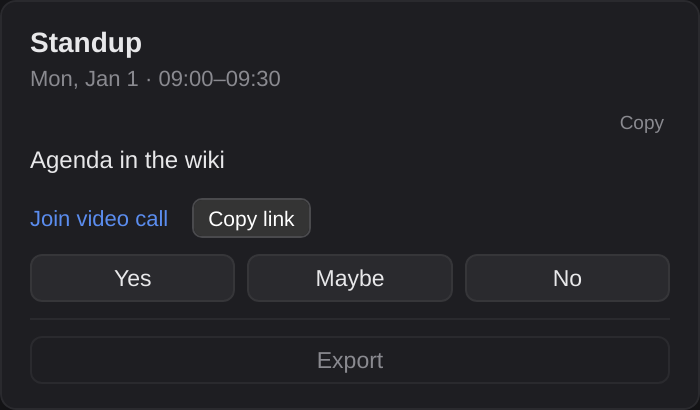
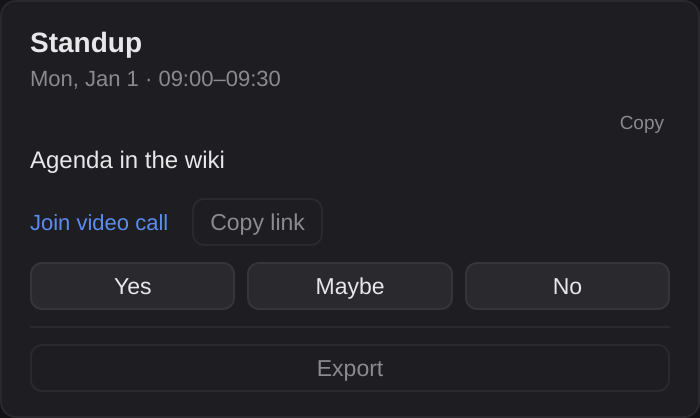
style(events): match copy link to the other detail actions
Share the secondary action styles so Copy link uses the same theme colors, border, radius, typography and hover treatment as Edit, Export and Delete. Verified in WebKit and Chromium with all 110 popover checks passing; refreshed the real component screenshot.

diff --git a/ui/src/lib/EventPopover.svelte b/ui/src/lib/EventPopover.svelte
@@ -713,7 +713,7 @@
   .conf { display: inline-block; color: var(--accent); font-size: 11px;
           text-decoration: none; }
   .conf:hover { text-decoration: underline; }
-  .copy-conference { font: inherit; font-size: 10.5px; cursor: copy; padding: 2px 6px; }
+  .copy-conference { appearance: none; -webkit-appearance: none; padding: 5px 8px; }
 
   /* Sits with the guest list rather than with the detail lines above it,
      because it is a reading of that list and not another fact about the
@@ -774,10 +774,11 @@
      are the pair that change the event for everybody. */
   .own { display: flex; gap: 6px; margin-top: 8px; padding-top: 8px;
          border-top: 1px solid var(--hairline); }
-  .own button { flex: 1; font: inherit; font-size: 11.5px; cursor: pointer;
-                background: none; color: var(--muted);
-                border: 1px solid var(--hairline); border-radius: 6px; padding: 5px 0; }
-  .own button:hover { color: var(--text); }
+  .own button { flex: 1; padding: 5px 0; }
+  .own button, .copy-conference { font: inherit; font-size: 11.5px; cursor: pointer;
+                                background: none; color: var(--muted);
+                                border: 1px solid var(--hairline); border-radius: 6px; }
+  .own button:hover, .copy-conference:hover { color: var(--text); }
 
   .note { font-size: 10.5px; color: var(--muted); line-height: 1.4;
           margin: 8px 0 0; padding: 6px 8px; border-radius: 5px;
